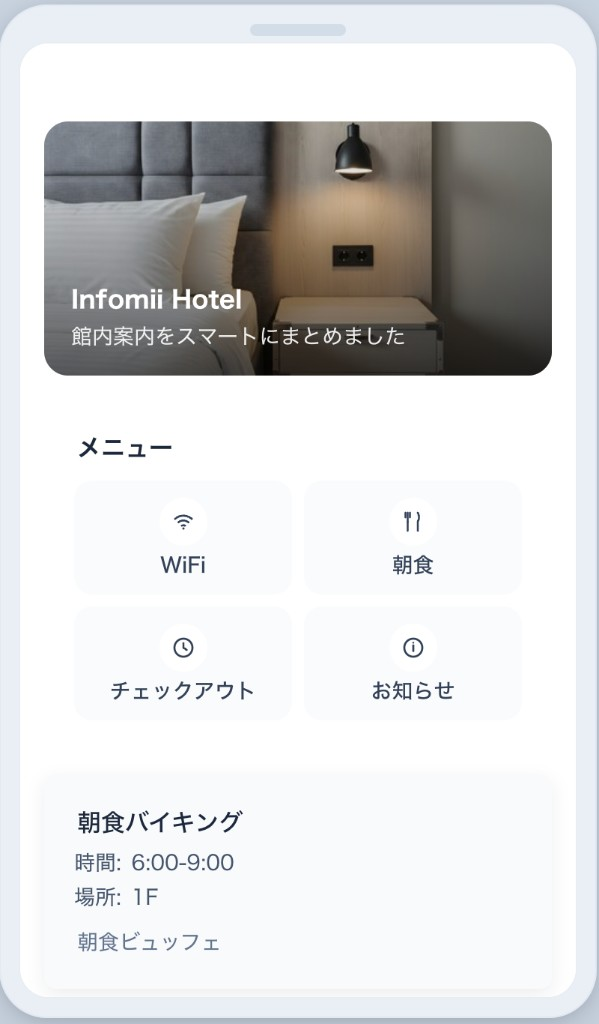
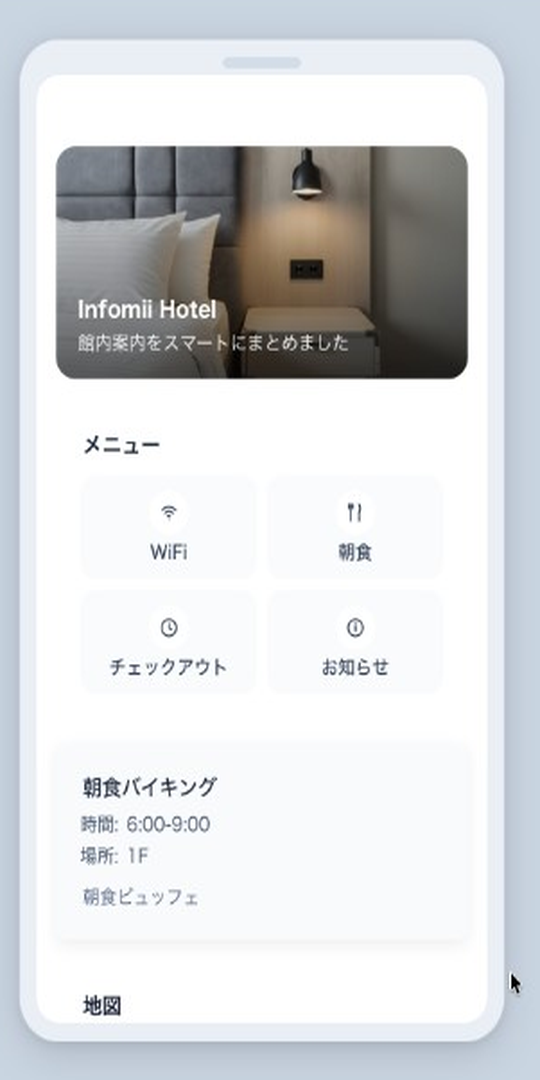
style: update LP guest phone screenshots
Made-with: Cursor

diff --git a/src/app/lp/saas/page.tsx b/src/app/lp/saas/page.tsx
@@ -62,41 +62,13 @@ function LpMidCta({
 
 function LpSolutionPhoneMock() {
   return (
-    <div
-      className="relative mx-auto w-full max-w-[260px] overflow-hidden rounded-[1.75rem] border-[7px] border-slate-800 bg-slate-800 shadow-[0_24px_60px_-20px_rgba(15,23,42,0.45)]"
-      aria-hidden
-    >
-      <div className="absolute left-1/2 top-2.5 h-5 w-16 -translate-x-1/2 rounded-full bg-slate-900" />
-      <div className="mt-8 min-h-[280px] bg-[#fafaf9] px-3 pb-4 pt-2">
-        <p className="text-center text-[10px] font-semibold uppercase tracking-wider text-slate-400">
-          ゲストのスマホ表示
-        </p>
-        <div className="mt-2 rounded-xl border border-slate-200 bg-white p-3 shadow-sm">
-          <p className="text-[11px] font-semibold text-slate-800">Infomii Hotel</p>
-          <p className="mt-0.5 text-[10px] text-slate-500">チェックイン後のご案内</p>
-          <div className="mt-2 grid grid-cols-2 gap-2">
-            <div className="rounded-lg bg-emerald-50 p-2 ring-1 ring-emerald-100">
-              <p className="text-[10px] font-semibold text-emerald-800">WiFi</p>
-              <p className="mt-0.5 text-[9px] text-emerald-700">Guest / welcome2026</p>
-            </div>
-            <div className="rounded-lg bg-slate-50 p-2 ring-1 ring-slate-200">
-              <p className="text-[10px] font-semibold text-slate-800">朝食</p>
-              <p className="mt-0.5 text-[9px] text-slate-600">6:30-9:30 / 1F</p>
-            </div>
-          </div>
-          <div className="mt-2 rounded-lg bg-slate-50 p-2 ring-1 ring-slate-200">
-            <p className="text-[10px] font-semibold text-slate-800">チェックアウト</p>
-            <p className="mt-0.5 text-[9px] text-slate-600">11:00 / 延長はフロントへ</p>
-          </div>
-          <button
-            type="button"
-            className="mt-2 w-full rounded-lg bg-slate-900 py-1.5 text-[10px] font-semibold text-white"
-          >
-            フロントに連絡する
-          </button>
-        </div>
-        <p className="mt-2 text-center text-[9px] text-slate-400">WiFi · 朝食 · 館内案内</p>
-      </div>
+    <div className="relative mx-auto w-full max-w-[260px]" aria-hidden>
+      <img
+        src="/lp-solution-phone-screenshot.png"
+        alt=""
+        className="block w-full h-auto"
+        loading="eager"
+      />
     </div>
   );
 }
